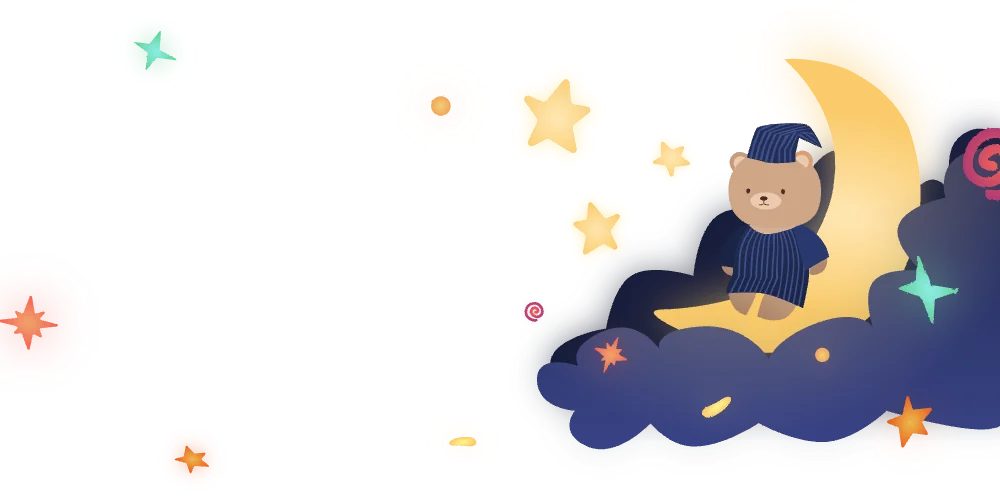
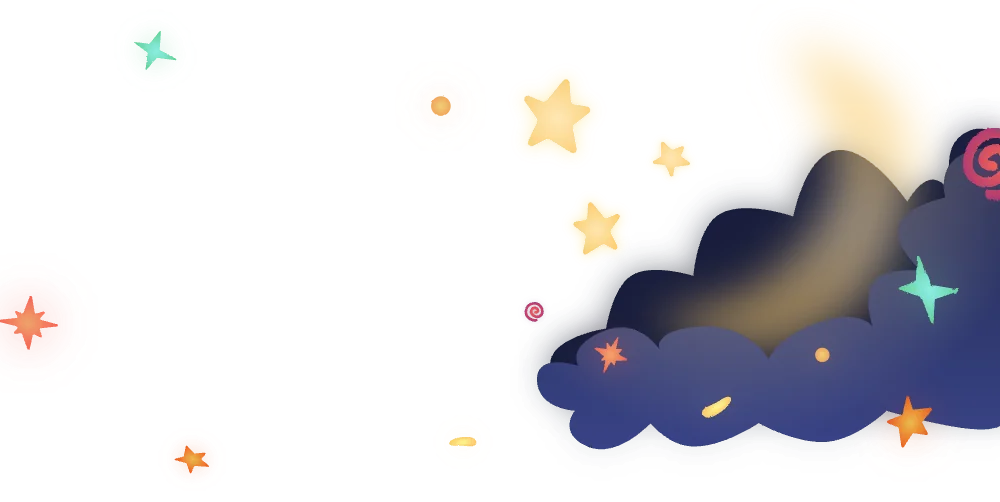
feat(about): draw the moon and bear live over the flattened night scene
The crisp crescent and the bear come out of the moon-bear raster as inline
SVG so they can move; the glow, blurred cloud shadows and loose sparkles
stay in the WebP. The front cloud laps over the crescent in the art, so the
overlay draws it again masked to the crescent (grown by a stroke so the
moon's antialiased edge under it never shows), between moon and bear.
The four desktop WebPs are re-rasterised from the source without the
figure.

Changed region(s): [[0.651, 0.1195, 0.93, 0.7171]]

diff --git a/src/components/about/moon-bear-art.tsx b/src/components/about/moon-bear-art.tsx
@@ -1,0 +1,348 @@
+import type { CSSProperties, Ref } from "react";
+
+/**
+ * The crescent and the bear from the "moon bear" illustration, lifted out of
+ * the flattened raster so they can move. Everything soft (the moon's glow,
+ * the blurred cloud shadows, the loose sparkles) stays in the WebP behind
+ * this; these are the crisp paths only, so nothing here needs a filter.
+ *
+ * In the original art the crescent sits behind the front cloud while the
+ * bear sits on top of it. Drawn over the raster, the moon would cover that
+ * cloud, so the cloud (with its moonlight) is drawn again here, masked to the
+ * crescent, between the two. The mask is the crescent grown by a stroke: the
+ * moon's antialiased edge under the cloud is then fully covered, where a
+ * mask cut exactly on the edge would leave a faint yellow line along it.
+ */
+
+/** The art's design size; the desktop raster is drawn at this viewBox. */
+export const MOON_BEAR_VIEWBOX = "0 0 1531 768";
+
+const MOON =
+  "M1276.6 279.737C1274.14 316.65 1244.66 385.199 1200.93 418.377C1145.01 467.593 1029.82 473.354 1017.16 473.354C967.08 473.355 1047.37 508.525 1066.09 516.802C1178.88 566.66 1329.35 536.955 1384.83 411.45C1418.99 334.158 1414.31 259.563 1390.45 192.877C1370.95 155.877 1346.79 132.327 1306.57 110.631C1269.66 90.7242 1206.76 86.9476 1200.93 91.3769C1202.43 91.3783 1294.08 169.201 1276.6 279.737Z";
+
+const FRONT_CLOUD =
+  "M1374.5 349.108C1380.43 315.725 1447.5 302.108 1447.5 302.108C1447.5 302.108 1428 241.108 1496.5 228.108C1565 215.108 1593.5 272.108 1593.5 272.108L1574.5 356.108C1574.5 356.108 1633.65 641.299 1515 656.608C1469.72 662.45 1357.5 628.608 1357.5 628.608C1357.5 628.608 1306.91 677.018 1258.5 676.608C1212.6 676.219 1161.5 647.608 1161.5 647.608C1161.5 647.608 1103.41 686.475 1057.5 683.108C1022.09 680.51 996 647.608 996 647.608C996 647.608 944.5 703.608 898.5 683.108C852.5 662.608 880 628.608 880 628.608C880 628.608 823 625.608 822 581.608C821 537.608 886 560.108 886 560.108C886 560.108 865.5 532.108 921.5 507.608C977.5 483.108 1009.5 534.608 1009.5 534.608C1009.5 534.608 997 505.608 1070.5 499.608C1144 493.608 1177 549.108 1177 549.108C1177 549.108 1189 516.108 1252.5 493.608C1316 471.108 1336 499.608 1336 499.608C1336 499.608 1320.71 453.581 1336 432.108C1353.25 407.881 1410 414.108 1410 414.108C1410 414.108 1369.44 377.585 1374.5 349.108Z";
+
+const PYJAMA_BODY =
+  "M1173.67 358.14C1189.52 358.473 1214.95 348.479 1214.95 348.479C1214.95 348.479 1245.33 376.125 1237.4 433.081C1235.64 441.595 1231.46 463.724 1229.48 471.717C1229.48 471.717 1190.51 452.731 1168.72 449.067C1146.93 445.403 1111.6 449.067 1111.6 449.067C1111.6 438.076 1119.85 424.42 1122.17 417.758C1122.17 363.801 1146.93 344.816 1146.93 344.816C1146.93 344.816 1157.83 357.807 1173.67 358.14Z";
+
+const NIGHTCAP =
+  "M1218.01 247.658V234.951L1223.41 210.839L1258.85 226.805C1258.85 226.805 1246.36 195.525 1234.89 190.637C1223.41 185.75 1162.99 189.334 1158.27 196.177C1153.54 203.019 1143.42 241.142 1143.42 241.142C1143.42 241.142 1155.57 243.423 1170.42 247.658C1185.27 251.894 1218.01 247.658 1218.01 247.658Z";
+
+const PYJAMA_STRIPES = [
+  "M1152.13 349.703L1149.82 347.704C1145.75 354.81 1133.64 369.353 1131.66 388.338C1131.31 391.736 1130.34 411.321 1130.34 421.646L1116.8 448.292L1120.11 448.292L1132.98 421.646C1132.98 418.871 1132.72 407.79 1134.3 389.671C1135.89 371.552 1147.73 355.365 1152.13 349.703Z",
+  "M1157.75 353.367L1155.43 351.702C1151.36 358.808 1142.56 371.352 1140.58 390.337C1140.22 393.735 1138.15 418.205 1138.92 423.312L1127.04 449.957L1129.68 449.958L1141.24 423.312C1141.24 420.537 1141.63 408.456 1143.22 390.337C1144.8 372.218 1153.34 359.029 1157.75 353.367Z",
+  "M1163.69 356.031L1161.38 355.365C1157.31 362.471 1152.46 370.685 1150.48 389.67C1150.13 393.068 1148.06 417.538 1148.83 422.645L1136.94 449.29L1139.59 449.291L1151.14 422.645C1151.14 419.87 1151.54 407.789 1153.12 389.67C1154.71 371.551 1159.29 361.694 1163.69 356.031Z",
+  "M1169.3 357.365L1166.99 357.033C1162.92 364.139 1160.39 372.018 1158.41 391.004C1158.05 394.401 1155.99 418.871 1156.76 423.978L1144.87 450.623L1147.51 450.624L1159.07 423.978C1159.07 421.203 1159.46 409.123 1161.05 391.004C1162.63 372.884 1164.9 363.027 1169.3 357.365Z",
+  "M1174.59 358.031L1172.28 358.03C1168.2 365.136 1168.31 372.018 1166.33 391.003C1165.98 394.401 1163.91 418.871 1164.68 423.978L1152.79 450.623L1155.43 450.624L1166.99 423.978C1166.99 421.202 1167.39 409.122 1168.97 391.003C1170.56 372.884 1170.18 363.693 1174.59 358.031Z",
+  "M1181.52 357.697L1178.55 357.697C1174.48 364.803 1176.24 372.017 1174.26 391.002C1173.9 394.4 1171.83 418.87 1172.6 423.977L1160.72 450.622L1163.36 450.623L1174.91 423.977C1174.91 421.201 1175.31 409.121 1176.9 391.002C1178.48 372.883 1177.12 363.359 1181.52 357.697Z",
+  "M1187.13 356.365L1184.16 357.031C1181.52 364.692 1184.82 372.017 1182.84 391.002C1182.49 394.4 1180.42 418.87 1181.19 423.977L1169.3 450.622L1171.94 450.623L1183.5 423.977C1183.5 421.202 1183.9 409.121 1185.48 391.002C1187.07 372.883 1185.48 365.358 1187.13 356.365Z",
+  "M1191.43 355.7L1189.45 356.032C1188.46 365.025 1191.43 370.686 1189.45 389.671C1189.09 393.069 1187.35 420.076 1188.12 425.183L1178.08 451.342L1180.21 452.057L1191.43 425.183C1191.43 422.408 1189.84 407.79 1191.43 389.671C1193.01 371.552 1190.11 364.692 1191.43 355.7Z",
+  "M1223.79 410.653C1225.37 387.471 1215.86 360.359 1210.91 349.701L1208.27 350.701C1215.86 363.69 1221.8 388.73 1221.8 407.656C1221.8 418.647 1215.64 454.841 1212.89 464.611L1215.53 465.277C1217.62 456.728 1222.2 433.835 1223.79 410.653Z",
+  "M1216.02 408.655C1217.6 385.473 1209.92 362.36 1204.96 351.702L1202.65 352.369C1210.25 365.358 1214.03 386.732 1214.03 405.658C1214.03 416.649 1207.87 452.843 1205.12 462.613L1207.76 463.279C1209.85 454.73 1214.43 431.837 1216.02 408.655Z",
+  "M1208.09 407.989C1209.68 384.807 1204.31 364.025 1199.35 353.367L1196.38 354.366C1203.98 367.356 1206.11 386.066 1206.11 404.992C1206.11 415.983 1199.95 452.177 1197.2 461.947L1199.84 462.612C1201.93 454.063 1206.51 431.17 1208.09 407.989Z",
+  "M1199.02 407.351C1200.6 384.17 1199.35 365.692 1194.4 355.033L1192.42 355.699C1198.84 370.5 1196.36 388.425 1196.36 407.351C1196.36 418.343 1194.4 440.638 1188.7 454.606L1191.9 455.988C1193.99 447.44 1197.43 430.533 1199.02 407.351Z",
+  "M1231.86 414.65C1233.45 391.469 1223.94 364.357 1218.98 353.698L1216.34 354.698C1223.94 367.688 1229.88 392.728 1229.88 411.653C1229.88 422.645 1223.72 458.839 1220.97 468.609L1223.61 469.274C1225.7 460.725 1230.28 437.832 1231.86 414.65Z",
+];
+
+const CAP_STRIPES = [
+  "M1203.22 228.847V248.462L1200.28 249.651V228.847L1214.57 203.337L1231.58 202.265L1246.45 212.271L1257.73 224.092L1231.93 204.766L1219.18 203.337L1203.22 228.847Z",
+  "M1194.68 248.76V229.145L1208.9 206.196L1223.78 200.318L1244.33 206.196L1255.31 219.061L1244.33 203.338L1223.78 200.318L1202.17 207.268L1191.73 229.145V249.949L1194.68 248.76Z",
+  "M1151.07 242.815L1147.24 241.626L1152.84 220.823L1161.78 198.691L1180.21 188.428L1215.28 180.109V182.967L1189.06 188.428L1164.26 200.121L1156.08 220.823L1151.07 242.815Z",
+  "M1159.03 244.598L1155.2 243.409L1160.8 222.605L1169.93 201.207L1195.08 190.211L1218.82 188.011L1195.08 192.973L1173.46 202.396L1164.04 222.605L1159.03 244.598Z",
+  "M1166.69 245.787L1162.86 244.598L1168.46 223.794L1177.59 202.396L1200.75 195.118L1232.28 188.328L1225.91 190.829L1203.23 196.19L1181.13 203.585L1171.7 223.794L1166.69 245.787Z",
+  "M1174.35 248.166L1170.52 246.977L1176.12 226.173L1185.25 204.775L1209.41 197.643L1230.16 192.617H1242.2H1243.26L1225.55 195.265L1211.77 199.426L1188.78 205.964L1179.36 226.173L1174.35 248.166Z",
+  "M1182.6 249.354L1178.77 248.165L1184.37 227.361L1193.5 205.963L1217.66 198.83L1250.95 194.967L1243.59 196.453L1220.02 200.614L1197.04 207.152L1187.61 227.361L1182.6 249.354Z",
+  "M1208.82 248.165H1211.47V229.441L1221.49 206.854L1228.03 209.769L1258.32 226.469L1248.58 219.775L1225.91 205.071H1220.31L1208.82 229.441V248.165Z",
+];
+
+type MoonBearArtProps = {
+  ref?: Ref<SVGSVGElement>;
+  /** Namespaces the gradient and mask ids; the art is drawn more than once. */
+  idPrefix: string;
+  /** The desktop art, or a crop of it for the phone frame. */
+  viewBox?: string;
+  className?: string;
+  style?: CSSProperties;
+};
+
+export const MoonBearArt = ({
+  ref,
+  idPrefix: id,
+  viewBox = MOON_BEAR_VIEWBOX,
+  className,
+  style,
+}: MoonBearArtProps) => {
+  return (
+    <svg
+      ref={ref}
+      viewBox={viewBox}
+      fill="none"
+      className={className}
+      style={style}
+    >
+      <defs>
+        <mask
+          id={`${id}-under-cloud`}
+          maskUnits="userSpaceOnUse"
+          x="959"
+          y="78"
+          width="468"
+          height="496"
+        >
+          <path d={MOON} fill="#fff" stroke="#fff" strokeWidth="3" />
+        </mask>
+        <radialGradient
+          id={`${id}-moon`}
+          cx="0"
+          cy="0"
+          r="1"
+          gradientTransform="matrix(-243.541 -49.2937 -31.0932 150.781 1295.73 329.695)"
+          gradientUnits="userSpaceOnUse"
+        >
+          <stop stopColor="#FFE6B3" />
+          <stop offset="1" stopColor="#FACB6B" />
+        </radialGradient>
+        <linearGradient
+          id={`${id}-cloud`}
+          x1="1207.74"
+          y1="226.18"
+          x2="1207.65"
+          y2="737.453"
+          gradientUnits="userSpaceOnUse"
+        >
+          <stop stopColor="#252B50" />
+          <stop offset="1" stopColor="#3A458C" />
+        </linearGradient>
+        <radialGradient
+          id={`${id}-moonlight`}
+          cx="0"
+          cy="0"
+          r="1"
+          gradientUnits="userSpaceOnUse"
+          gradientTransform="translate(1134.5 213.608) rotate(89.3489) scale(463.119)"
+        >
+          <stop stopColor="#FFDA88" stopOpacity="0.5" />
+          <stop offset="1" stopColor="#FFE8BD" stopOpacity="0" />
+        </radialGradient>
+        <linearGradient
+          id={`${id}-foot-right`}
+          x1="1197.99"
+          y1="452.701"
+          x2="1171.58"
+          y2="492.091"
+          gradientUnits="userSpaceOnUse"
+        >
+          <stop stopColor="#C2997A" />
+          <stop offset="1" stopColor="#A98469" />
+        </linearGradient>
+        <linearGradient
+          id={`${id}-foot-left`}
+          x1="1143.85"
+          y1="432.188"
+          x2="1123.03"
+          y2="469.668"
+          gradientUnits="userSpaceOnUse"
+        >
+          <stop stopColor="#C2997A" />
+          <stop offset="1" stopColor="#A98469" />
+        </linearGradient>
+        <linearGradient
+          id={`${id}-arm-left`}
+          x1="1127.27"
+          y1="340.746"
+          x2="1129.5"
+          y2="422.242"
+          gradientUnits="userSpaceOnUse"
+        >
+          <stop stopColor="#CEA98C" />
+          <stop offset="1" stopColor="#A98469" />
+        </linearGradient>
+        <linearGradient
+          id={`${id}-arm-right`}
+          x1="1235.74"
+          y1="338.678"
+          x2="1248.37"
+          y2="420.304"
+          gradientUnits="userSpaceOnUse"
+        >
+          <stop stopColor="#CEA98C" />
+          <stop offset="1" stopColor="#A98469" />
+        </linearGradient>
+        <linearGradient
+          id={`${id}-body`}
+          x1="1185.62"
+          y1="334.954"
+          x2="1182.8"
+          y2="475.128"
+          gradientUnits="userSpaceOnUse"
+        >
+          <stop stopColor="#D6B499" />
+          <stop offset="1" stopColor="#C39B7C" />
+        </linearGradient>
+        <linearGradient
+          id={`${id}-pyjama`}
+          x1="1175.16"
+          y1="344.816"
+          x2="1175.16"
+          y2="471.717"
+          gradientUnits="userSpaceOnUse"
+        >
+          <stop stopColor="#232F56" />
+          <stop offset="1" stopColor="#1A2445" />
+        </linearGradient>
+      </defs>
+
+      <path data-part="moon" d={MOON} fill={`url(#${id}-moon)`} />
+
+      {/* The front cloud, only where it laps over the crescent. */}
+      <g mask={`url(#${id}-under-cloud)`}>
+        <path d={FRONT_CLOUD} fill={`url(#${id}-cloud)`} />
+        <mask
+          id={`${id}-cloud-shape`}
+          style={{ maskType: "alpha" }}
+          maskUnits="userSpaceOnUse"
+          x="821"
+          y="226"
+          width="773"
+          height="462"
+        >
+          <path d={FRONT_CLOUD} fill={`url(#${id}-cloud)`} />
+        </mask>
+        <g mask={`url(#${id}-cloud-shape)`}>
+          <circle
+            cx="1134.5"
+            cy="213.608"
+            r="531.5"
+            fill={`url(#${id}-moonlight)`}
+          />
+        </g>
+      </g>
+      <g data-part="bear">
+        <path
+          d="M1200.78 487.473C1221.55 479.37 1236.45 423.723 1236.45 423.723C1236.45 423.723 1182.67 439.42 1175.01 444.249C1167.35 449.079 1159.13 483.851 1159.13 483.851C1159.13 483.851 1180.02 495.576 1200.78 487.473Z"
+          fill={`url(#${id}-foot-right)`}
+        />
+        <path
+          d="M1117.86 459.77C1109.54 438.937 1126.48 411.882 1126.48 411.882C1126.48 411.882 1157.35 436.491 1159.36 441.829C1161.37 447.167 1142.6 482.436 1142.6 482.436C1142.6 482.436 1126.17 480.604 1117.86 459.77Z"
+          fill={`url(#${id}-foot-left)`}
+        />
+        <path
+          d="M1104.47 386.528C1107.4 365.899 1136.23 338.465 1152.43 340.182C1153.57 346.756 1142.83 365.281 1141.02 384.412C1139.21 403.542 1132.91 417.046 1129.98 421.407C1127.79 422.323 1122.89 422.914 1118.79 421.713C1107.34 418.356 1101.2 409.504 1104.47 386.528Z"
+          fill={`url(#${id}-arm-left)`}
+        />
+        <path
+          d="M1262.81 379.269C1255.9 359.086 1227.43 339.964 1214.49 341.966C1214.47 348.801 1217.96 366.477 1223.39 385.371C1228.82 404.264 1232.82 415.06 1241.96 420.446C1244.47 420.943 1249.83 420.585 1254 418.582C1265.65 412.984 1270.5 401.749 1262.81 379.269Z"
+          fill={`url(#${id}-arm-right)`}
+        />
+        <path
+          d="M1236.53 423.236C1252.16 401.334 1223.87 345.296 1217.02 335.587L1154.51 334.331C1144.04 351.574 1125.87 362.132 1124.98 407.298C1124.98 407.298 1122.58 441.588 1165.43 446.176C1208.28 450.764 1220.9 445.137 1236.53 423.236Z"
+          fill={`url(#${id}-body)`}
+        />
+        <ellipse
+          cx="29.8984"
+          cy="33.0432"
+          rx="29.8984"
+          ry="33.0432"
+          transform="matrix(-0.999798 -0.0200899 -0.0197436 0.999805 1203.16 357.55)"
+          fill="#EBC9B0"
+        />
+        <path
+          d="M1147.92 343.816L1143.63 341.151C1143.63 341.151 1097.07 359.47 1100.37 406.434L1123.16 409.431L1147.92 343.816Z"
+          fill="#1A2445"
+        />
+        <path d={PYJAMA_BODY} fill={`url(#${id}-pyjama)`} />
+        <mask
+          id={`${id}-pyjama-shape`}
+          style={{ maskType: "alpha" }}
+          maskUnits="userSpaceOnUse"
+          x="1111"
+          y="344"
+          width="128"
+          height="128"
+        >
+          <path d={PYJAMA_BODY} fill={`url(#${id}-pyjama)`} />
+        </mask>
+        <g mask={`url(#${id}-pyjama-shape)`}>
+          {PYJAMA_STRIPES.map((d) => (
+            <path key={d.slice(0, 16)} d={d} fill="#3E508B" />
+          ))}
+        </g>
+        <path
+          d="M1232.78 414.093L1269.43 393.11C1261.83 354.807 1226.18 343.483 1226.18 343.483L1213.96 348.479L1232.78 414.093Z"
+          fill="#29396F"
+        />
+        <path
+          d="M1122.49 236.083C1109.98 246.877 1122.33 261.524 1122.33 261.524L1149.32 240.414C1149.32 240.414 1135 225.288 1122.49 236.083Z"
+          fill="#C39B7D"
+        />
+        <path
+          d="M1126.77 241.65C1118.56 249.161 1127.11 258.82 1127.11 258.82L1144.87 244.087C1144.87 244.087 1134.99 234.14 1126.77 241.65Z"
+          fill="#EBC9B0"
+        />
+        <path
+          d="M1115.17 288.675C1115.17 322.248 1128.1 349.465 1185.22 349.465C1249.7 349.465 1257.12 322.248 1257.12 288.675C1257.12 255.101 1225.92 227.884 1185.22 227.884C1144.52 227.884 1115.17 255.101 1115.17 288.675Z"
+          fill="#CFA687"
+        />
+        <ellipse
+          cx="23.7736"
+          cy="13.107"
+          rx="23.7736"
+          ry="13.107"
+          transform="matrix(-0.999828 -0.0185513 -0.0182315 0.999834 1196.56 294.69)"
+          fill="#EBC9B0"
+        />
+        <path
+          d="M1169.53 306.481C1173.01 306.455 1175.96 304.121 1174.21 302.068C1173.41 301.472 1170.68 300.73 1169.56 300.673C1168.5 300.618 1166.08 301.133 1165.09 301.899C1162.15 304.177 1166.05 306.507 1169.53 306.481Z"
+          fill="#4F2F22"
+          stroke="#4F2F22"
+          strokeWidth="1.1299"
+          strokeLinecap="round"
+        />
+        <path
+          d="M1169.55 306.192V311.478M1169.55 311.478C1168.35 312.359 1165.31 314.121 1162.04 313.46M1169.55 311.478C1170.31 312.138 1173.5 314.451 1176.45 313.46"
+          stroke="#4F2F22"
+          strokeWidth="1.1299"
+          strokeLinecap="round"
+        />
+        <path
+          d="M1198.16 289.193C1197.42 289.294 1196.78 289.79 1196.36 290.554C1195.93 291.319 1195.73 292.335 1195.88 293.421C1196.02 294.507 1196.48 295.434 1197.09 296.059C1197.7 296.683 1198.45 296.991 1199.19 296.891C1199.93 296.79 1200.57 296.293 1200.99 295.529C1201.42 294.765 1201.62 293.748 1201.47 292.663C1201.33 291.577 1200.87 290.649 1200.26 290.025C1199.65 289.401 1198.9 289.093 1198.16 289.193Z"
+          fill="#4F2F22"
+          stroke="#4F2F22"
+          strokeWidth="0.564949"
+        />
+        <path
+          d="M1146.05 288.231C1146.79 288.331 1147.43 288.828 1147.85 289.592C1148.28 290.357 1148.48 291.373 1148.33 292.459C1148.19 293.545 1147.73 294.472 1147.12 295.096C1146.51 295.72 1145.76 296.029 1145.02 295.928C1144.28 295.828 1143.64 295.331 1143.22 294.567C1142.79 293.803 1142.59 292.786 1142.74 291.7C1142.88 290.615 1143.34 289.687 1143.95 289.063C1144.56 288.439 1145.31 288.13 1146.05 288.231Z"
+          fill="#4F2F22"
+          stroke="#4F2F22"
+          strokeWidth="0.564949"
+        />
+        <path
+          d="M1239 234.15C1251.5 244.944 1239.16 259.591 1239.16 259.591L1212.17 238.481C1212.17 238.481 1226.49 223.355 1239 234.15Z"
+          fill="#D9A076"
+        />
+        <path
+          d="M1234.72 239.715C1242.93 247.226 1234.38 256.885 1234.38 256.885L1216.61 242.151C1216.61 242.151 1226.5 232.204 1234.72 239.715Z"
+          fill="#EBC9B0"
+        />
+        <path d={NIGHTCAP} fill="#232F56" />
+        <mask
+          id={`${id}-cap-shape`}
+          style={{ maskType: "alpha" }}
+          maskUnits="userSpaceOnUse"
+          x="1143"
+          y="188"
+          width="116"
+          height="62"
+        >
+          <path d={NIGHTCAP} fill="#232F56" />
+        </mask>
+        <g mask={`url(#${id}-cap-shape)`}>
+          {CAP_STRIPES.map((d) => (
+            <path key={d.slice(0, 16)} d={d} fill="#3E508B" />
+          ))}
+        </g>
+      </g>
+    </svg>
+  );
+};

diff --git a/src/components/about/desktop-about.tsx b/src/components/about/desktop-about.tsx
@@ -3,6 +3,7 @@ import { ResponsiveArt } from "@/components/ui/responsive-art";
 import { WELCOME_PARAGRAPHS, WELCOME_TITLE } from "@/constants/about";
 
 import { HackathonFaq } from "./hackathon-faq";
+import { MoonBearArt } from "./moon-bear-art";
 
 // Sections are not stacking contexts, so these z-indexes order against the
 // hero's layers too: its sparkles (z-10) and house (z-20) overhang into here.
@@ -25,7 +26,10 @@ export const DesktopAbout = () => (
 
     {/* What is a hackathon */}
     <div className="relative w-full aspect-[2.100228245]">
-      {/* Illustration */}
+      {/* Illustration: the night scene as a raster, with the moon and bear
+          drawn live on top of it so they can move. The overlay is sized like
+          the image (full width, its own aspect) rather than to this box,
+          whose aspect is not the art's. */}
       <Parallax speed={0.15} className="absolute z-10 w-full h-full">
         <ResponsiveArt
           base="/assets/about/moon-bear"
@@ -35,6 +39,10 @@ export const DesktopAbout = () => (
           sizes="100vw"
           media="(min-width: 768px)"
           className="block w-full h-auto"
+        />
+        <MoonBearArt
+          idPrefix="about-moon-bear"
+          className="pointer-events-none absolute top-0 left-0 w-full h-auto"
         />
       </Parallax>
 
